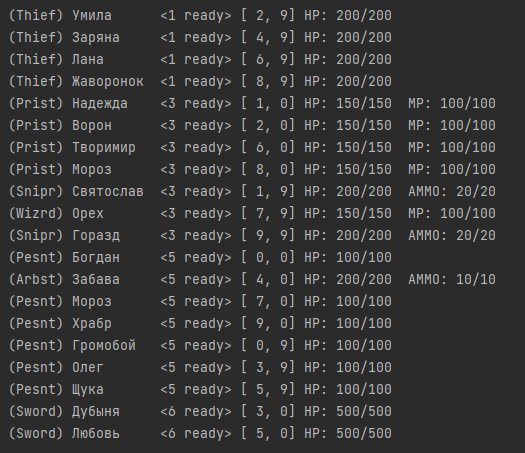
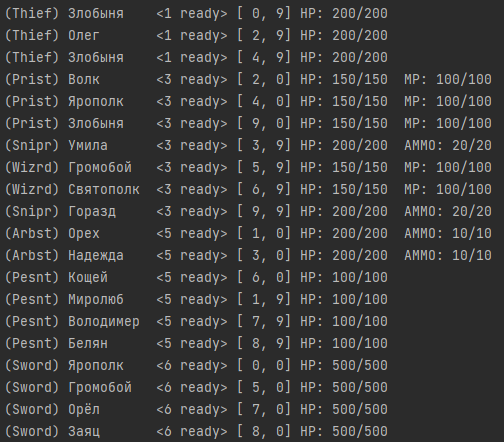
OOP homework4 done

Changed region(s): [[0.0, 0.0, 0.9821, 1.0]]

diff --git a/src/main/java/org/somegame/Main.java b/src/main/java/org/somegame/Main.java
@@ -40,6 +40,8 @@ public class Main {
         Army.sortPriorityList();
         Army.getPriorityList().forEach(unit -> System.out.println(unit.unitStats()));
         Army.getPriorityList().forEach(unit ->  unit.action(armyOne,armyTwo));
+        System.out.println();
+        Army.getPriorityList().forEach(unit -> System.out.println(unit.unitStats()));
     }
 }
 
